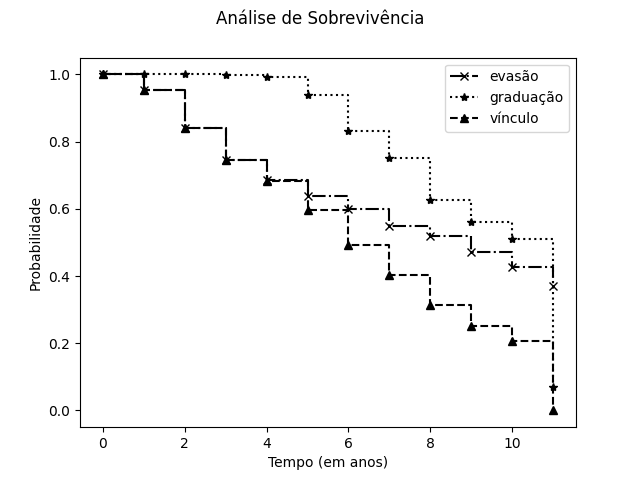
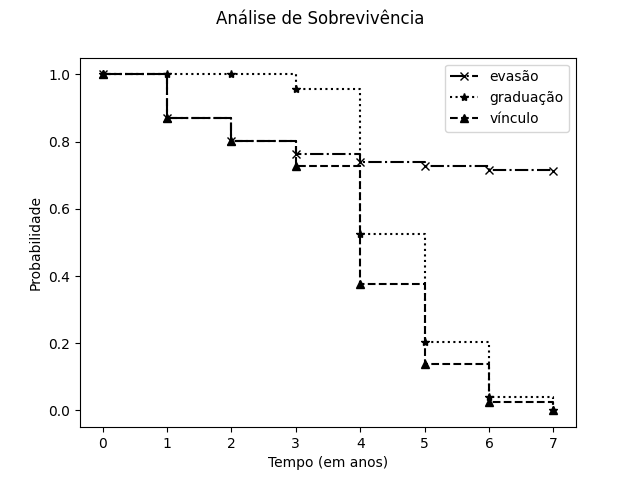
Boumi corrigido e adicionando novas categorias para bsi-bcc

diff --git a/generate_probabilities.py b/generate_probabilities.py
@@ -2,7 +2,7 @@ import pandas as pd
 import numpy as np
 from markov_diagram import Diagram
 
-# Gera os CSVs
+# # Gera os CSVs
 
 # CSV Principal
 # df = pd.read_csv("docs/df_survivability_bsi-bcc.csv")
@@ -17,20 +17,53 @@ from markov_diagram import Diagram
 # df_todos = df.groupby(['DURACAO_VINCULO', 'STATUS'])['QTD'].sum()
 # df_todos.to_csv("docs/df_survivability_bsi-bcc-ano-todos.csv")
 
-# Categorias
+# # Categorias
 
 # Sexo
 # df = pd.read_csv("docs/df_survivability_bsi-bcc-ano.csv")
 # df_sexo_f = df[df['NM_SEXO'] == 'F']
 # df_sexo_f = df_sexo_f.groupby(['DURACAO_VINCULO', 'STATUS'])['QTD'].sum()
 # df_sexo_f.to_csv("docs/df_survivability_bsi-bcc-ano-sexo_f.csv")
+#
 # df_sexo_m = df[df['NM_SEXO'] == 'M']
 # df_sexo_m = df_sexo_m.groupby(['DURACAO_VINCULO', 'STATUS'])['QTD'].sum()
 # df_sexo_m.to_csv("docs/df_survivability_bsi-bcc-ano-sexo_m.csv")
 
 # Escolaridade Pais
-# df_esclr_pais_não_analfabetos = df_ano[df_ano['NM_ESCLR_MAE'] != 'ANALFABETO']
-# df_esclr_pais_analfabetos = df_ano[df_ano['NM_ESCLR_MAE'] == 'ANALFABETO']
+# df = pd.read_csv("docs/df_survivability_bsi-bcc-ano.csv")
+# df_esclr_pais_nao_analfabetos = df[df['NM_ESCLR_MAE'] != 'ANALFABETO']
+# df_esclr_pais_nao_analfabetos = df_esclr_pais_nao_analfabetos.groupby(['DURACAO_VINCULO', 'STATUS'])['QTD'].sum()
+# df_esclr_pais_nao_analfabetos.to_csv("docs/df_survivability_bsi-bcc-ano-esclr_pais_nao_analfabetos.csv")
+#
+# df_esclr_pais_analfabetos = df[df['NM_ESCLR_MAE'] == 'ANALFABETO']
+# df_esclr_pais_alfabetos = df_esclr_pais_analfabetos.groupby(['DURACAO_VINCULO', 'STATUS'])['QTD'].sum()
+# df_esclr_pais_analfabetos.to_csv("docs/df_survivability_bsi-bcc-ano-esclr_pais_analfabetos.csv")
+
+# Cor/Raça [AMARELA, BRANCA, PARDA, PRETA, INDIGENA, -]
+# df = pd.read_csv("docs/df_survivability_bsi-bcc-ano.csv")
+# df_cor_raca_amarela = df[df['NM_COR_RACA'] != 'AMARELA']
+# df_cor_raca_amarela = df_cor_raca_amarela.groupby(['DURACAO_VINCULO', 'STATUS'])['QTD'].sum()
+# df_cor_raca_amarela.to_csv("docs/df_survivability_bsi-bcc-ano-cor_raca_amarela.csv")
+#
+# df_cor_raca_branca = df[df['NM_COR_RACA'] != 'BRANCA']
+# df_cor_raca_branca = df_cor_raca_branca.groupby(['DURACAO_VINCULO', 'STATUS'])['QTD'].sum()
+# df_cor_raca_branca.to_csv("docs/df_survivability_bsi-bcc-ano-cor_raca_branca.csv")
+#
+# df_cor_raca_parda = df[df['NM_COR_RACA'] != 'PARDA']
+# df_cor_raca_parda = df_cor_raca_parda.groupby(['DURACAO_VINCULO', 'STATUS'])['QTD'].sum()
+# df_cor_raca_parda.to_csv("docs/df_survivability_bsi-bcc-ano-cor_raca_parda.csv")
+#
+# df_cor_raca_preta = df[df['NM_COR_RACA'] != 'PRETA']
+# df_cor_raca_preta = df_cor_raca_preta.groupby(['DURACAO_VINCULO', 'STATUS'])['QTD'].sum()
+# df_cor_raca_preta.to_csv("docs/df_survivability_bsi-bcc-ano-cor_raca_preta.csv")
+#
+# df_cor_raca_indigena = df[df['NM_COR_RACA'] != 'INDIGENA']
+# df_cor_raca_indigena = df_cor_raca_indigena.groupby(['DURACAO_VINCULO', 'STATUS'])['QTD'].sum()
+# df_cor_raca_indigena.to_csv("docs/df_survivability_bsi-bcc-ano-cor_raca_indigena.csv")
+#
+# df_cor_raca_ni = df[df['NM_COR_RACA'] != '-']
+# df_cor_raca_ni = df_cor_raca_ni.groupby(['DURACAO_VINCULO', 'STATUS'])['QTD'].sum()
+# df_cor_raca_ni.to_csv("docs/df_survivability_bsi-bcc-ano-cor_raca_ni.csv")
 
 
 

diff --git a/simulation.py b/simulation.py
@@ -196,21 +196,27 @@ quantAlunos = 10000
 
 
 # Simulação Boumi
-time, event, event_evadido, event_graduado = Simu(quantAlunos, 'matrix/matrixBoumi.csv')
-sobrevivencia([time, time, time], [event_evadido, event_graduado, event], ['evasão', 'graduação', 'vínculo'], "Análise de Sobrevivência")
-
-timeA, eventA, event_evadidoA, event_graduadoA = Simu(quantAlunos, 'matrix/matrixBoumiAlterado.csv')
-sobrevivencia([timeA, timeA, timeA], [event_evadidoA, event_graduadoA, eventA], ['evasão', 'graduação', 'vínculo'], "Análise de Sobrevivência")
-
-times = [time, timeA]
-events = [event, eventA]
-labels = ["Versão do Artigo Original", "Versão com Retenção"]
-
-sobrevivencia(times, events, labels, "Análise de Sobrevivência do Vínculo")
-
-results = logrank_test(time, timeA, event_evadido, event_evadidoA)
-results.print_summary()
-print(results.p_value)
+# time, event, event_evadido, event_graduado = Simu(quantAlunos, 'matrix/matrixBoumi.csv')
+# sobrevivencia([time, time, time], [event_evadido, event_graduado, event], ['evasão', 'graduação', 'vínculo'], "Análise de Sobrevivência")
+#
+# timeA, eventA, event_evadidoA, event_graduadoA = Simu(quantAlunos, 'matrix/matrixBoumiAlterado.csv')
+# sobrevivencia([timeA, timeA, timeA], [event_evadidoA, event_graduadoA, eventA], ['evasão', 'graduação', 'vínculo'], "Análise de Sobrevivência")
+#
+# times = [time, timeA]
+# events = [event, eventA]
+# labels = ["Versão do Artigo Original", "Versão Adaptada"]
+#
+# sobrevivencia(times, events, labels, "Análise de Sobrevivência do Vínculo")
+#
+# events = [event_evadido, event_evadidoA]
+# sobrevivencia(times, events, labels, "Análise de Sobrevivência do Evasão")
+#
+# events = [event_graduado, event_graduadoA]
+# sobrevivencia(times, events, labels, "Análise de Sobrevivência do Graduação")
+#
+# results = logrank_test(time, timeA, event_graduado, event_graduadoA)
+# results.print_summary()
+# print(results.p_value)
 
 
 # Simulação Geral
@@ -252,4 +258,12 @@ print(results.p_value)
 # results = logrank_test(time_f, time_m, event_evadido_f, event_evadido_m)
 # results.print_summary()
 # print(results.p_value)
+
+
+# Simulação BSI-BCC - Escolaridade dos Pais
+
+
+
+# Simulação BSI-BCC - Cor/Raça
+
 

diff --git a/generate_mc.py b/generate_mc.py
@@ -179,7 +179,7 @@ ret = [A1toA1R, A2toA2R, A3toA3R, A4toA4R, A5toA5R]
 A1toA1R = 0.17 * taxaRetencao
 A2toA2R = 0.1 * taxaRetencao
 A3toA3R = 0.08 * taxaRetencao
-A4toA4R = 0.37 * taxaRetencao
+A4toA4R = 0.37 * taxaRetencao - 0.08
 
 # Evadir
 A1toE = 0.13 * taxaEvasao * taxaEvasaoA1
@@ -194,15 +194,16 @@ A5RtoE = 0.02 * taxaEvasaoR
 A6RtoE = 0.02/2 * taxaEvasaoR
 
 # Próximo estado
-A1toA2 = 1 - A1toA1R - A1toE - 0.06
+A1toA2 = 1 - A1toA1R - A1toE
 A1RtoA2R = 1 - A1RtoE
-A2toA3 = 1 - A2toA2R - A2toE - 0.08
+A2toA3 = 1 - A2toA2R - A2toE
 A2RtoA3R = 1 - A2RtoE
-A3toA4 = 1 - A3toA3R - A3toE
+A3toA4 = 1 - A3toA3R - A3toE - 0.06
 A3RtoA4R = 1 - A3RtoE
 A4RtoA5R = 0.37
 A5RtoA6R = 0.37/2
 
+A3toG = 0.06
 A4toG = 1 - A4toA4R - A4toE
 A4RtoG = 1 - A4RtoA5R - A4RtoE
 A5RtoG = 1 - A5RtoA6R - A5RtoE
@@ -211,9 +212,9 @@ A6RtoG = 1 - A6RtoE
 states = ['A1', 'A2', 'A3', 'A4', 'A1R', 'A2R', 'A3R', 'A4R', 'A5R', 'A6R', 'G', 'E']
 state = np.array([[1, 0, 0, 0, 0, 0, 0, 0, 0, 0, 0, 0]])
 
-p = [[0.0, A1toA2, 0.06, 0.0, A1toA1R, 0.0, 0.0, 0.0, 0.0, 0.0, 0.0, A1toE],
-     [0.0, 0.0, A2toA3, 0.08, 0.0, A2toA2R, 0.0, 0.0, 0.0, 0.0, 0.0, A2toE],
-     [0.0, 0.0, 0.0, A3toA4, 0.0, 0.0, A3toA3R, 0.0, 0.0, 0.0, 0.0, A3toE],
+p = [[0.0, A1toA2, 0.0, 0.0, A1toA1R, 0.0, 0.0, 0.0, 0.0, 0.0, 0.0, A1toE],
+     [0.0, 0.0, A2toA3, 0.0, 0.0, A2toA2R, 0.0, 0.0, 0.0, 0.0, 0.0, A2toE],
+     [0.0, 0.0, 0.0, A3toA4, 0.0, 0.0, A3toA3R, 0.0, 0.0, 0.0, A3toG, A3toE],
      [0.0, 0.0, 0.0, 0.0, 0.0, 0.0, 0.0, A4toA4R, 0.0, 0.0, A4toG, A4toE],
      [0.0, 0.0, 0.0, 0.0, 0.0, A1RtoA2R, 0.0, 0.0, 0.0, 0.0, 0.0, A1RtoE],
      [0.0, 0.0, 0.0, 0.0, 0.0, 0.0, A2RtoA3R, 0.0, 0.0, 0.0, 0.0, A2RtoE],
